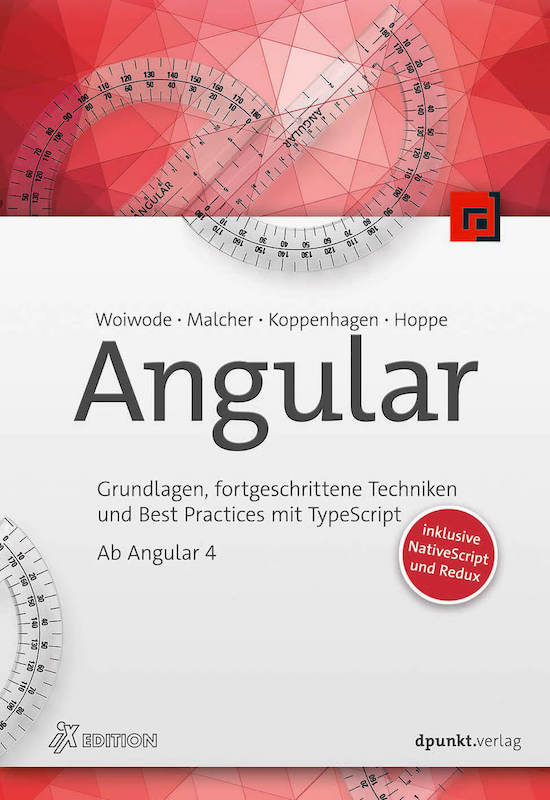
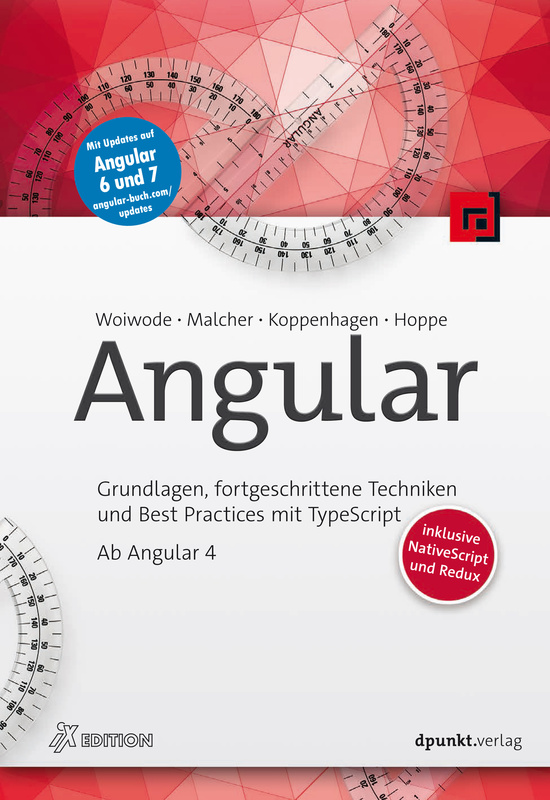
Adds some more thumbnails for Angular books

diff --git a/src/model/some-books.ts b/src/model/some-books.ts
@@ -25,7 +25,12 @@ export class SomeBooks {
       new Date('2019-04-30T00:00:00.000Z'),
       'Grundlagen, fortgeschrittene Themen und Best Practices – mit NativeScript und NgRx',
       5,
-      [new Thumbnail('https://api3.angular-buch.com/images/angular_auflage2.jpg', 'Front Cover')],
+      [
+        new Thumbnail('https://api3.angular-buch.com/images/angular_auflage2.jpg', 'Front Cover'),
+        new Thumbnail('https://api3.angular-buch.com/images/angular_auflage2_back.jpg', 'Rückseite'),
+        new Thumbnail('https://api3.angular-buch.com/images/angular_auflage2_update-note.jpg', 'Update Hinweis'),
+        new Thumbnail('https://api3.angular-buch.com/images/angular_auflage2_book+ebook.jpg', 'Als gebundenes Buch und E-Book verfügbar')
+      ],
       `Die Autoren führen Sie mit einem anspruchsvollen Beispielprojekt durch die Welt von Angular. Lernen Sie Schritt für Schritt, wie Sie strukturierte und modulare Single-Page-Anwendungen entwickeln. Nach der erfolgreichen ersten Auflage wurde dieses Buch grundlegend aktualisiert und erweitert:
       Durchgängig aktualisiert auf Angular 7 und neuere Versionen, Redux mit Reactive Extensions for Angular (NgRx), Ausführliches Kapitel zu RxJS und Observables, Server-Side Rendering mit Angular Universal, HTTP-Interceptoren, Kompakter Schnelleinstieg in Angular mit Stackblitz.
       Praktisch: Der Programmcode zu jeder einzelnen Entwicklungsphase ist auf GitHub verfügbar. So können Sie alle Schritte gut nachvollziehen und auch Teile überspringen.
@@ -41,7 +46,10 @@ export class SomeBooks {
       new Date('2017-05-22T12:00:00.000Z'),
       'Grundlagen, fortgeschrittene Techniken und Best Practices mit TypeScript - ab Angular 4, inklusive NativeScript und Redux',
       3,
-      [new Thumbnail('https://api3.angular-buch.com/images/angular_auflage1.jpg', 'Front Cover')],
+      [
+        new Thumbnail('https://api3.angular-buch.com/images/angular_auflage1.jpg', 'Front Cover'),
+        new Thumbnail('https://api3.angular-buch.com/images/angular_auflage1_back.jpg', 'Rückseite')
+      ],
       `Mit Angular setzen Sie auf ein modernes und modulares Web-Framework. Dieses Buch stellt Ihnen die Bausteine von Angular, viele Best Practices und die notwendigen Werkzeuge vor. Beginnen Sie Ihren Einstieg in die Welt von Angular mit einer praxisnahen Einführung.
       Jedes Thema wird zunächst theoretisch behandelt und anschließend anhand einer durchgehenden Beispielanwendung (https://ng-buch.de/app) demonstriert.
       Meistern Sie die komponentenorientierte Webentwicklung und lernen Sie zusätzlich einen Weg zur Erstellung mobiler Apps (NativeScript) kennen. Mit der Redux-Architektur beherrschen Sie auch komplexe Anwendungen.
